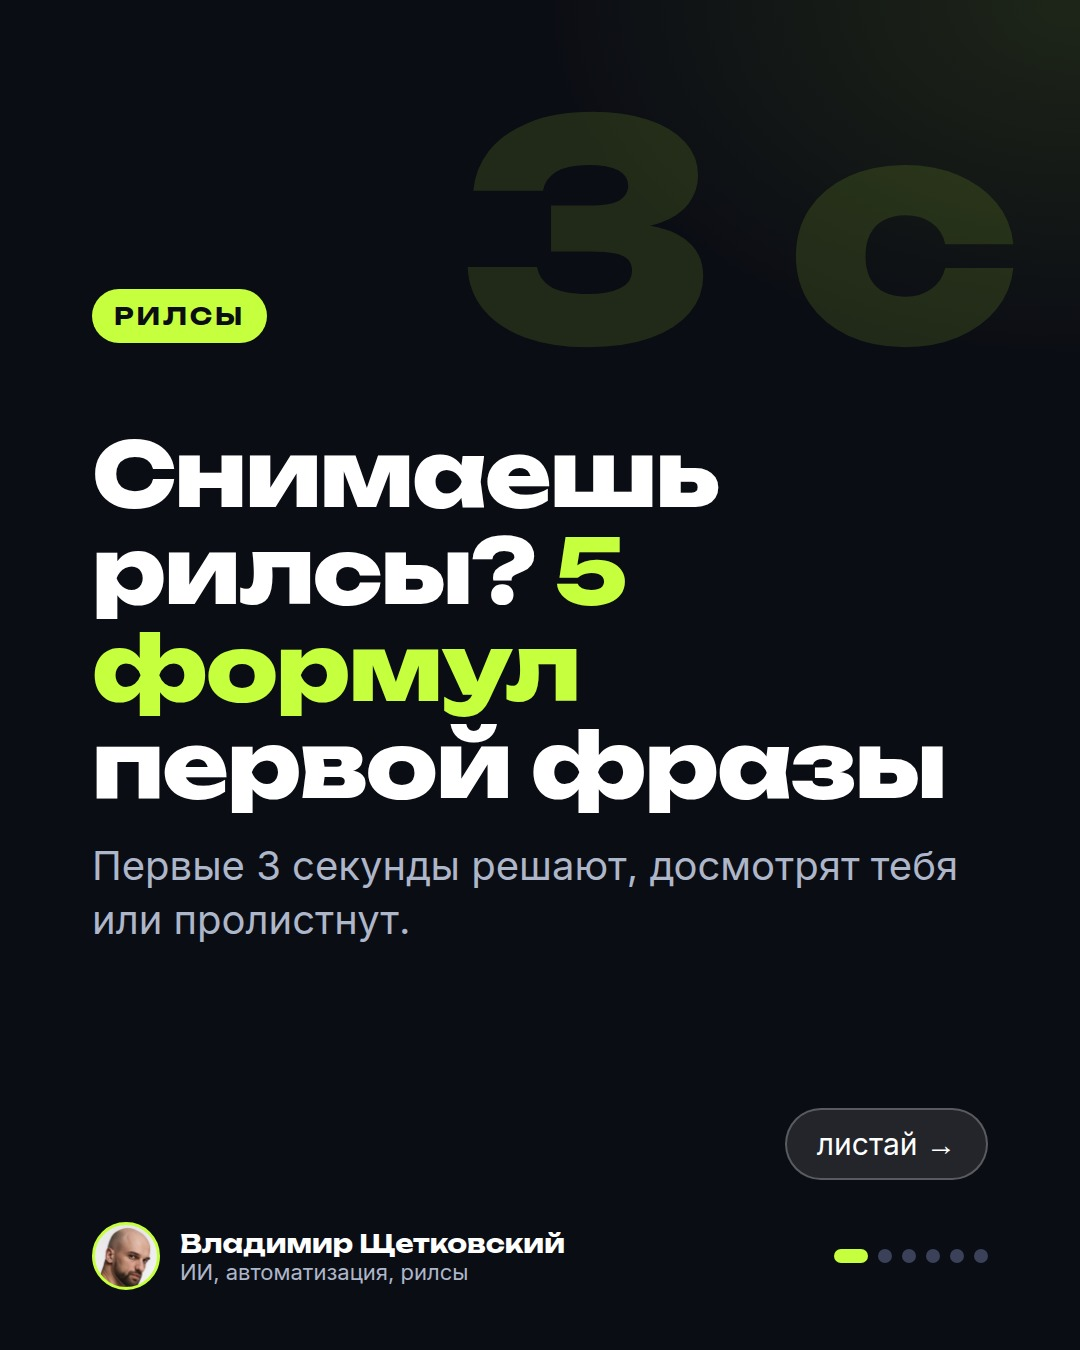
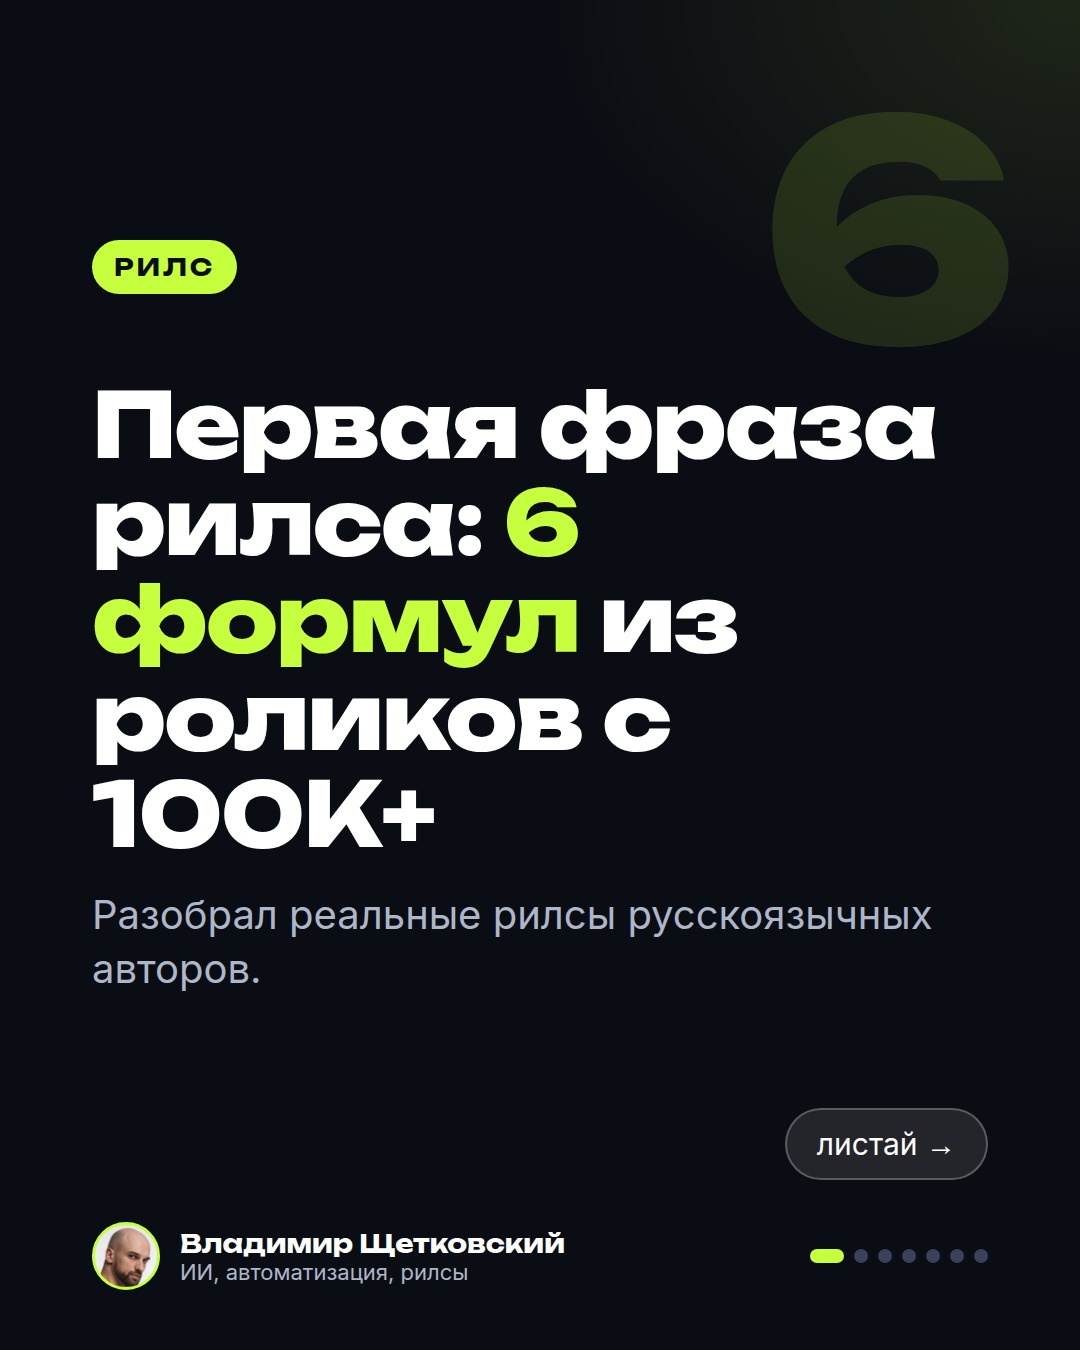
hooks6: формулы хуков по реальным рилсам, переписан p04_hook для Instagram
Claude-Session: https://claude.ai/code/session_01RGtCujMSt6uDGJ5qVfRfoY

Changed region(s): [[0.0611, 0.0622, 0.8861, 0.7467], [0.7028, 0.0622, 0.9472, 0.2489], [0.7333, 0.9022, 0.7944, 0.9333]]

diff --git a/posts/2026-10-19_1200_hooks6/text.md b/posts/2026-10-19_1200_hooks6/text.md
@@ -1,0 +1,17 @@
+6 ФОРМУЛ ПЕРВОЙ ФРАЗЫ РИЛСА ИЗ РОЛИКОВ С 100K+ ПРОСМОТРОВ
+Разобрал реальные рилсы русскоязычных авторов (данные vidIQ):
+1. Цифра результата: «Набрал 11 000 подписчиков за 28 видео» (@ilyat.pro, 106K)
+2. Было и стало: «Как из 210 просмотров сделать 583K» (@sold_arisha1, 2.3M)
+3. Таймер: «Дайте мне 30 секунд, и вы научитесь читать статистику Reels» (@evgeniya_yaskovich, 45K)
+4. Тупая причина: «Самая тупая причина, почему твои рилсы не видит новая аудитория» (@hmyrov63, 1.4M)
+5. Запрет: «Хватит выкладывать рилс через плюс» (@liza.tkachyk, 108K)
+6. Скетч новичок и профи (@batischv, 346K)
+
+Общее: нет «привет», говорят в камеру с нулевой секунды, текст на экране дублирует фразу, цифра или срок в первых 5 словах.
+
+Промпт для Claude или ChatGPT: «Тема рилса: [тема]. Мой реальный результат: [цифра, срок]. Напиши 10 первых фраз до 12 слов по этим 6 формулам. Без слова «привет». Цифры не выдумывай.»
+
+Какая формула у тебя не заходит?
+
+Instagram: instagram.com/vladimir_shchetkovsky
+Threads: threads.com/@vladimir_shchetkovsky

diff --git a/posts/2026-10-19_1200_hooks6/threads.md b/posts/2026-10-19_1200_hooks6/threads.md
@@ -1,0 +1,16 @@
+6 ФОРМУЛ ПЕРВОЙ ФРАЗЫ РИЛСА
+Разобрал рилсы русскоязычных авторов с 100K+ просмотров через vidIQ.
+---
+1. Цифра результата: «Набрал 11 000 подписчиков за 28 видео» (@ilyat.pro, 106K)
+2. Было и стало: «Как из 210 просмотров сделать 583K» (@sold_arisha1, 2.3M)
+3. Таймер: «Дайте мне 30 секунд, и вы научитесь читать статистику Reels» (@evgeniya_yaskovich, 45K)
+---
+4. Тупая причина: «Самая тупая причина, почему твои рилсы не видит новая аудитория» (@hmyrov63, 1.4M)
+5. Запрет: «Хватит выкладывать рилс через плюс» (@liza.tkachyk, 108K)
+6. Скетч двух ролей, новичок и профи (@batischv, 346K)
+---
+Общее у всех: нет «привет», говорят в камеру с нулевой секунды, текст на экране дублирует фразу, цифра или срок в первых 5 словах.
+---
+Промпт для Claude или ChatGPT: «Тема рилса: [тема]. Мой реальный результат: [цифра, срок]. Напиши 10 первых фраз до 12 слов по этим формулам. Без слова «привет». Цифры не выдумывай.»
+---
+Какая формула у тебя не заходит? Разбираю рилсы и ИИ в Telegram: t.me/vladimirAIAvtom
